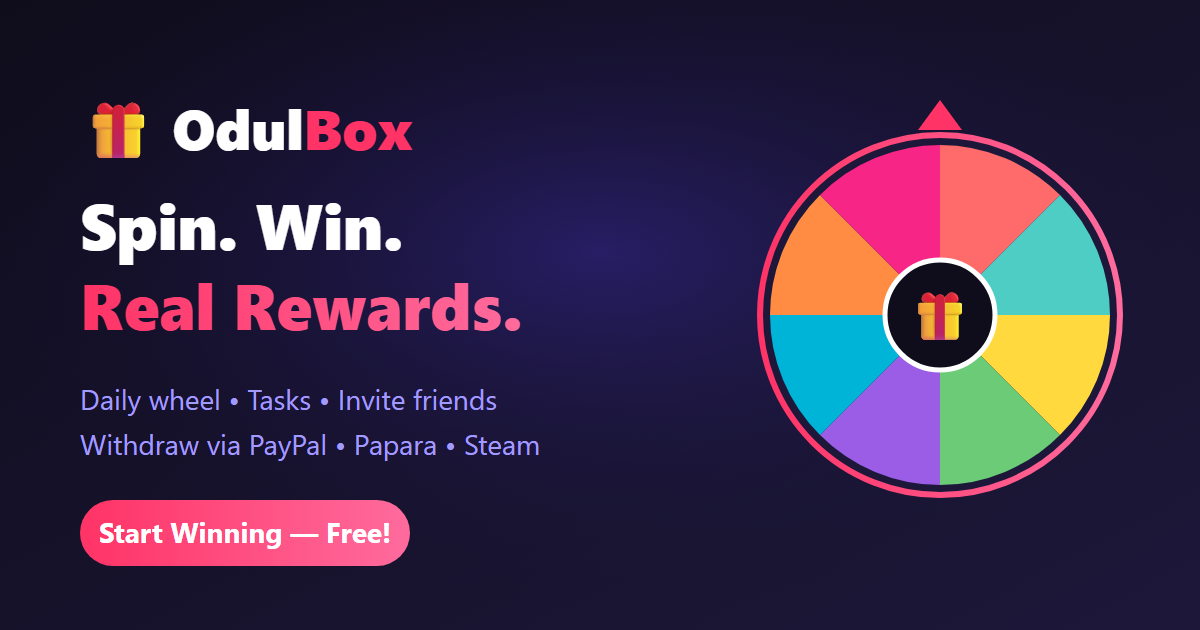
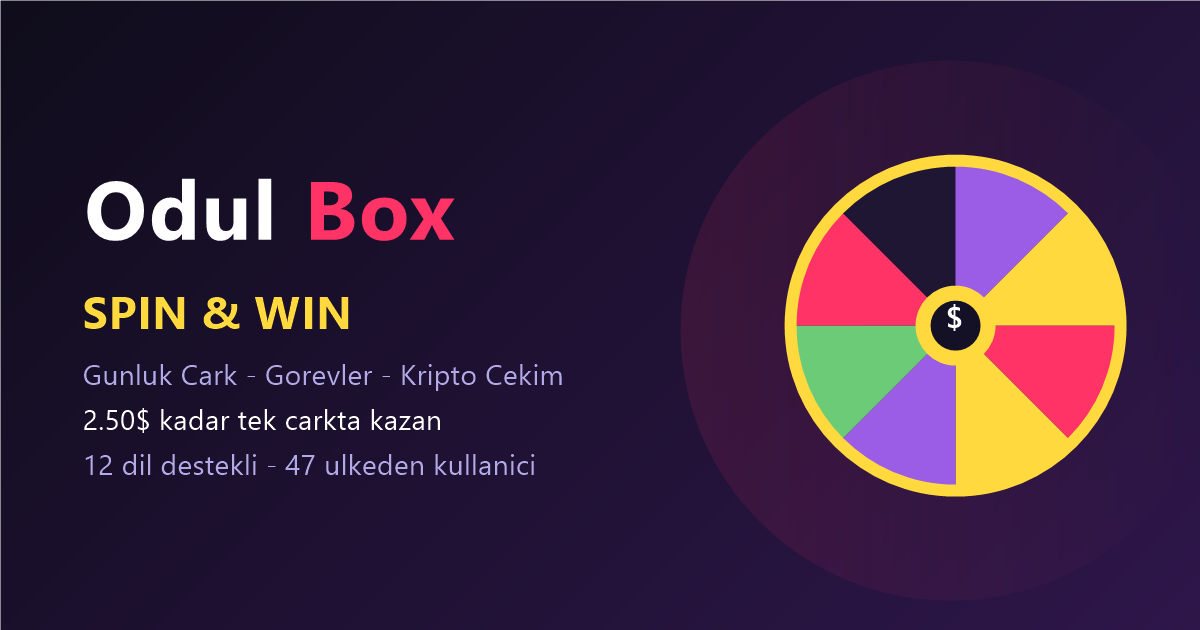
v27: anlik kazanma overlay'i (TEBRIKLER +X$ animasyonlu popup) + profesyonel OG/Twitter gorseli + seo meta tamalandi

diff --git a/style.css b/style.css
@@ -610,3 +610,19 @@ body, html { overflow-x: hidden !important; max-width: 100vw; }
     color: #a29bfe; border-radius: 8px; font-size: 12.5px; font-weight: 600; cursor: pointer;
 }
 .admin-method.active { background: linear-gradient(135deg, #ff3366, #9B5DE5); color: #fff; border-color: transparent; }
+
+/* Anlık kazanan overlay */
+.win-popup { position: fixed; inset: 0; z-index: 9998; display: flex; align-items: center; justify-content: center; background: rgba(10,8,20,0.75); backdrop-filter: blur(6px); opacity: 0; transition: opacity 0.3s; }
+.win-popup.show { opacity: 1; }
+.wp-card {
+    background: linear-gradient(160deg, #241a44, #141026); border: 2px solid #ffd93d;
+    border-radius: 22px; padding: 34px 44px; text-align: center; max-width: 320px;
+    box-shadow: 0 0 60px rgba(255,217,61,0.35); transform: scale(0.7); transition: transform 0.35s cubic-bezier(0.34,1.56,0.64,1);
+}
+.win-popup.show .wp-card { transform: scale(1); }
+.wp-emoji { font-size: 52px; animation: wpBounce 1s ease infinite alternate; }
+@keyframes wpBounce { to { transform: scale(1.2) rotate(8deg); } }
+.wp-title { font-size: 22px; font-weight: 800; letter-spacing: 2px; color: #fff; margin: 8px 0; }
+.wp-amt { font-size: 46px; font-weight: 900; color: #ffd93d; text-shadow: 0 0 25px rgba(255,217,61,0.6); margin: 4px 0 8px 0; }
+.wp-sub { font-size: 13px; color: #a29bfe; margin-bottom: 18px; line-height: 1.5; }
+.wp-card button { background: linear-gradient(135deg, #ff3366, #9B5DE5); color: #fff; border: none; padding: 12px 34px; border-radius: 24px; font-size: 15px; font-weight: 700; cursor: pointer; letter-spacing: 1px; }

diff --git a/script.js b/script.js
@@ -470,6 +470,22 @@ function shadeColor(hex, percent) {
 }
 
 // Konfeti efekti (kazanınca patlar)
+// Anlık kazanan duyurusu (çarkın üstünde şık overlay)
+function showWinPopup(amount) {
+    const div = document.createElement('div');
+    div.className = 'win-popup';
+    const card = document.createElement('div');
+    card.className = 'wp-card';
+    card.innerHTML = '<div class="wp-emoji">🎉</div><div class="wp-title">TEBRİKLER!</div><div class="wp-amt">+' + amount.toFixed(2) + ' $</div><div class="wp-sub">Bakiyene eklendi — yarın tekrar çevir, daha büyük kazan!</div>';
+    const btn = document.createElement('button');
+    btn.textContent = 'HARİKA!';
+    btn.onclick = () => div.remove();
+    card.appendChild(btn);
+    div.appendChild(card);
+    document.body.appendChild(div);
+    setTimeout(() => div.classList.add('show'), 10);
+}
+
 function launchConfetti() {
     const colors = ['#ff3366','#ffd93d','#00b4d8','#9b5de5','#6bcb77','#ffffff'];
     for (let i=0;i<60;i++) {
@@ -535,7 +551,7 @@ function spinWheel() {
         loggedInUser.lastSpinDate = today;
         addBalance(won.value);
         launchConfetti();
-        alert(`${lang.winAlert} ${won.label} 🎉`);
+        showWinPopup(won.value);
     }
     requestAnimationFrame(animate);
 }

diff --git a/index.html b/index.html
@@ -20,6 +20,8 @@
     <meta property="og:description" content="Spin the wheel, complete tasks, invite friends and win real rewards. Withdraw via PayPal, Papara or Steam!">
     <meta property="og:url" content="https://jansjosef871-blip.github.io/odulbox/">
     <meta property="og:image" content="https://jansjosef871-blip.github.io/odulbox/og-image.png">
+    <meta name="twitter:card" content="summary_large_image">
+    <meta name="twitter:image" content="https://jansjosef871-blip.github.io/odulbox/og-image.png">
 
     <!-- Twitter Card -->
     <meta name="twitter:card" content="summary_large_image">
